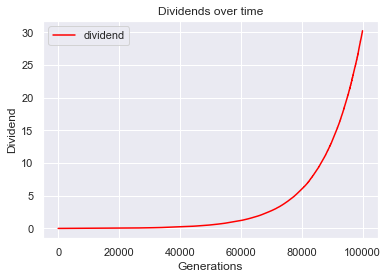
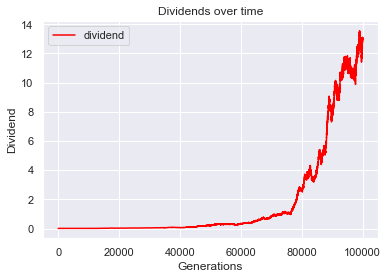
dividend not done

diff --git a/main.py b/main.py
@@ -40,6 +40,7 @@ def main():
     agent0_profit = []
     agent0_ema = []
     
+    dividend = INITIAL_DIVIDEND
     dividend_history.append(INITIAL_DIVIDEND)
     
     print(pop)
@@ -77,7 +78,7 @@ def main():
         '''
         DIVIDEND_GROWTH_RATE = market.determine_dividend_growth(DIVIDEND_GROWTH_RATE_G)
         
-        global dividend
+        # global dividend
         dividend, random_dividend = market.draw_dividend(DIVIDEND_GROWTH_RATE)
         dividend_history.append(dividend)
         random_dividend_history.append(random_dividend)
